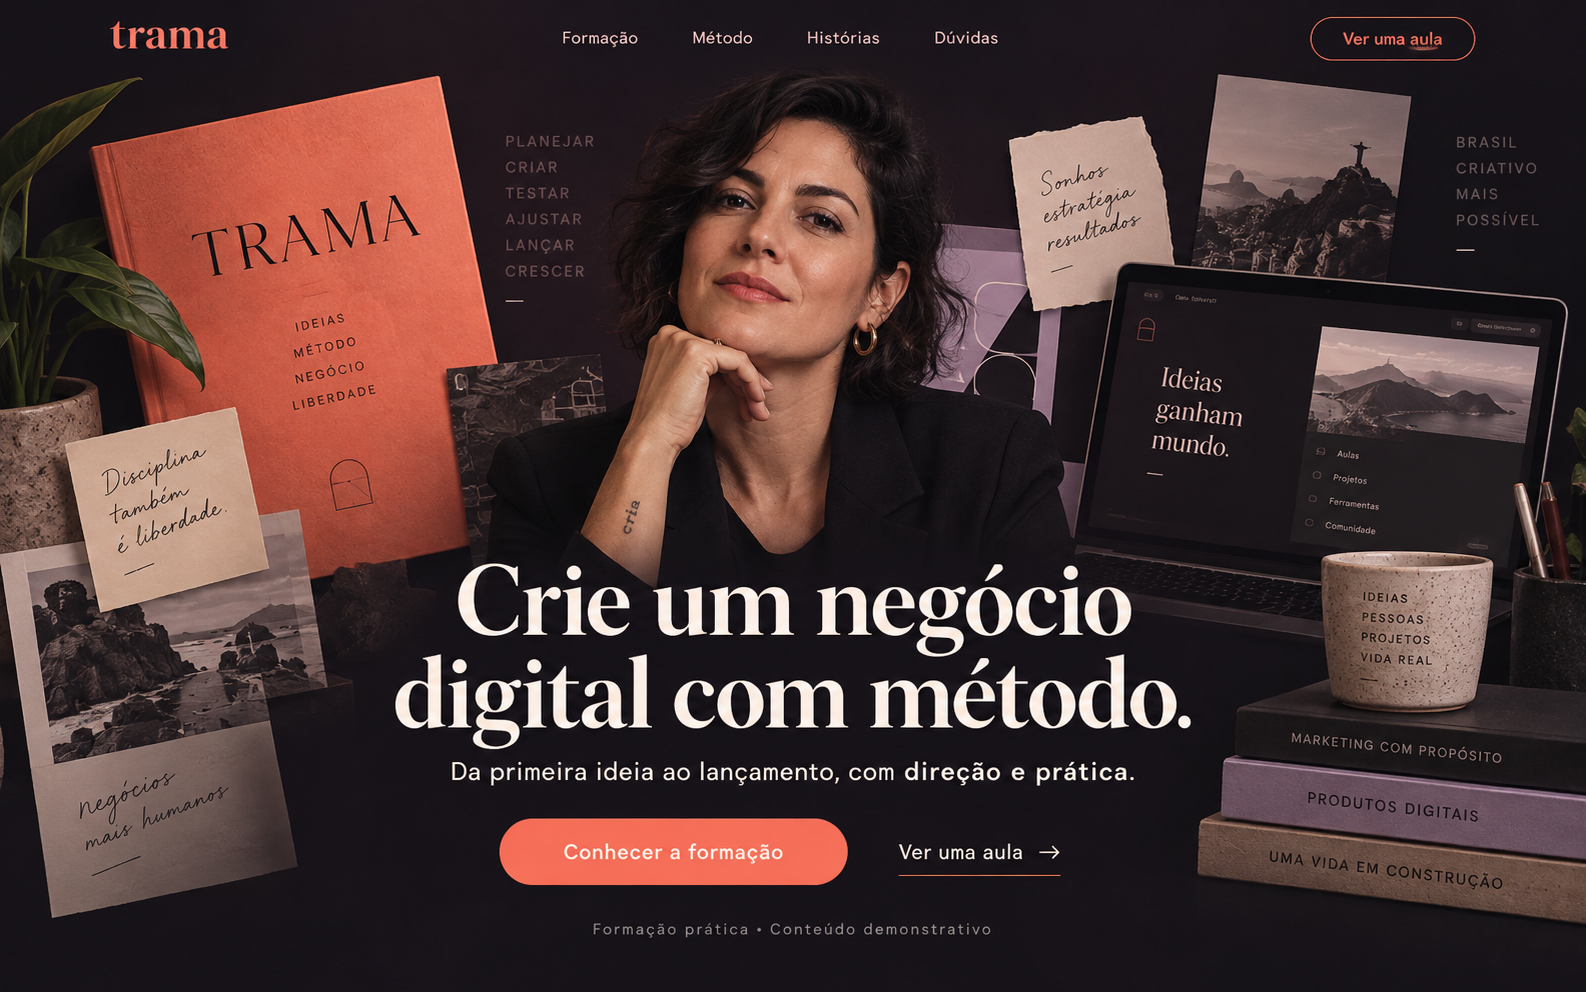
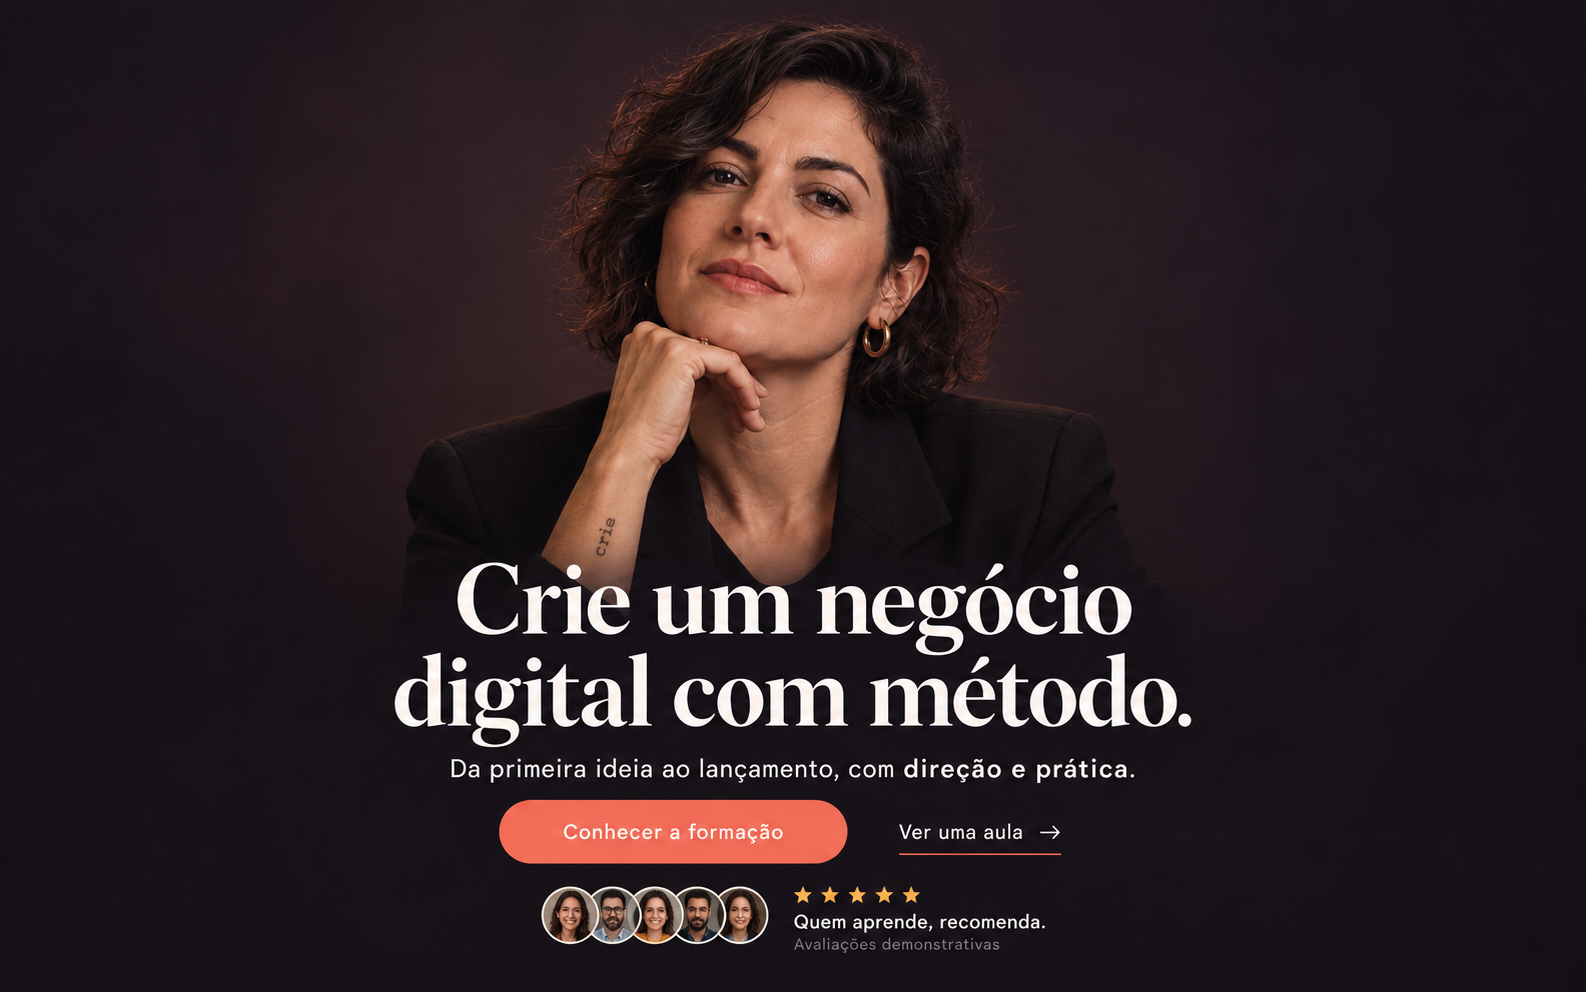
refine Trama hero after visual review

diff --git a/sites/concepts/2026-10-16-four-landings/index.html b/sites/concepts/2026-10-16-four-landings/index.html
@@ -33,13 +33,13 @@
     <header>
       <div class="eyebrow">SquadOS Studio · 16/10/2026 · ImageGen nativo</div>
       <h1>Quatro marcas.<br>Quatro primeiras impressões.</h1>
-      <p>Propostas de abertura para os templates one-page. As referências já estão escolhidas; agora validamos marcas, composição e arte próprias. Clique em cada imagem para vê-la no tamanho original.</p>
-      <span class="status">Conceitos estáticos · aguardando validação</span>
+      <p>Propostas de abertura para os templates one-page. Nortea, Orbe e Pipa aprovadas. Trama revisada conforme o feedback: retrato com mais foco, sem cabeçalho e com faixa de prova social. Clique em cada imagem para vê-la no tamanho original.</p>
+      <span class="status">Conceitos estáticos · Trama revisada para validação</span>
     </header>
     <section class="grid" aria-label="Conceitos dos quatro templates">
       <article>
-        <a class="preview" href="trama-hero.png" aria-label="Ver conceito da Trama em tamanho original"><img src="trama-hero.png" alt="Trama: instrutora fictícia e materiais de uma formação digital, em ameixa, creme e coral."></a>
-        <div class="copy"><div class="category">Infoproduto / Marketing Digital · referência Flux Academy</div><h2>Trama</h2><p>Escola de negócios digitais. Uma abertura com retrato, materiais e uma promessa de formação.</p><p class="planned"><strong>Interações previstas:</strong> módulos com prévia, aula demonstrativa, FAQ e inscrição local.</p></div>
+        <a class="preview" href="trama-hero.png" aria-label="Ver conceito da Trama em tamanho original"><img src="trama-hero.png" alt="Trama revisada: retrato da instrutora em fundo ameixa limpo, sem cabeçalho, com faixa de avaliações demonstrativas abaixo dos botões."></a>
+        <div class="copy"><div class="category">Infoproduto / Marketing Digital · referência Flux Academy</div><h2>Trama</h2><p>Escola de negócios digitais. Retrato em destaque, sem cabeçalho, com prova social demonstrativa abaixo dos botões. Revisão aguardando validação.</p><p class="planned"><strong>Interações previstas:</strong> módulos com prévia, aula demonstrativa, FAQ e inscrição local.</p></div>
       </article>
       <article>
         <a class="preview" href="nortea-hero.png" aria-label="Ver conceito da Nortea em tamanho original"><img src="nortea-hero.png" alt="Nortea: abertura editorial de consultoria, com fotos e relatórios em verde-petróleo e marfim."></a>

diff --git a/sites/concepts/2026-10-16-four-landings/README.md b/sites/concepts/2026-10-16-four-landings/README.md
@@ -1,6 +1,6 @@
 # Quatro aberturas para validação — 16/10/2026
 
-**Estado: conceitos visuais, aguardando validação do usuário.** As páginas finais
+**Estado: Nortea, Orbe e Pipa aprovadas; Trama revisada, aguardando validação.** As páginas finais
 e suas interações ainda não foram implementadas. O usuário autorizou os quatro
 templates e pediu validar primeiro aqui no chat, usando ImageGen nativo.
 
@@ -12,13 +12,13 @@ Essas imagens são propostas de composição, não capturas de páginas funciona
 
 | Template futuro | Marca fictícia proposta | Referência escolhida | Conceito |
 | --- | --- | --- | --- |
-| `website-digital-marketing` | **Trama**, escola de negócios digitais | [Flux Academy](https://www.flux-academy.com/courses/web-design-masterclass) | Fundo ameixa/carvão, creme/coral, instrutora fictícia e colagem de materiais próprios |
+| `website-digital-marketing` | **Trama**, escola de negócios digitais | [Flux Academy](https://www.flux-academy.com/courses/web-design-masterclass) | Fundo ameixa/carvão, creme/coral, foco na instrutora fictícia, sem cabeçalho e com prova social demonstrativa |
 | `website-corporate` | **Nortea**, consultoria de operações | [BCG](https://www.bcg.com/) | Composição editorial, marfim e verde-petróleo, fotografias e relatórios próprios, animação discreta |
 | `website-futuristic` | **Orbe**, workspace de inteligência | [Reflect](https://reflect.app/) | Azul-noite, arcos luminosos 2D e painel de produto frontal, sem modelos 3D complexos |
 | `website-playful` | **Pipa**, escola criativa | [Headspace](https://www.headspace.com/) | Creme, amarelo/coral/menta, personagens ilustrados próprios, mascote-pipa e movimentos suaves |
 
 As referências visuais foram escolhidas pelo usuário. Os nomes, conteúdo e arte
-acima são propostas desta etapa, ainda sujeitos à validação. Os personagens e
+acima são próprios desta etapa; apenas a revisão da Trama ainda aguarda validação. Os personagens e
 fotografias das propostas são sintéticos; não representam professores/clientes
 reais nem resultados de empresas reais.
 
@@ -27,7 +27,9 @@ reais nem resultados de empresas reais.
 ### Trama
 
 Promessa: **Crie um negócio digital com método.** A one-page terá abertura,
-transformação/método, programa, instrutora, oferta e FAQ. A navegação usará âncoras;
+transformação/método, programa, instrutora, oferta e FAQ. Sem cabeçalho, com
+retrato em fundo limpo e faixa de avatares/estrelas abaixo dos botões, identificada
+como “Avaliações demonstrativas”. Os botões usarão âncoras quando apropriado;
 selecionar um módulo trocará sua prévia; “Ver uma aula” abrirá uma demonstração
 local; inscrição terá formulário e confirmação local, sem compra ou envio real.
 
@@ -59,13 +61,17 @@ escopo previsto após validação, não funcionalidades comprovadas por estas im
 
 Quatro chamadas separadas ao **ImageGen nativo**, uma para cada hero. Não foi usado
 CLI, API externa ou engine local. Os prompts completos estão em [prompts.json](prompts.json).
+Após o feedback, uma quinta chamada nativa editou somente a Trama, preservando
+instrutora, paleta e tipografia. Os três conceitos aprovados mantêm os mesmos bytes.
 As saídas foram copiadas do diretório padrão do ImageGen, sem modificar seus bytes.
 Hashes e dimensões estão em [assets.json](assets.json).
 
 A [verificação da galeria](QA.json) passou: quatro PNGs 1586×992 íntegros,
 imagens decodificadas, links locais existentes, primeiro acesso por teclado e
 ausência de overflow horizontal em 1440px e 390px. A galeria foi renderizada e
-inspecionada; esse resultado não valida interações dos templates finais.
+inspecionada na entrega inicial. Após a revisão, foram conferidos os quatro hashes,
+dimensões, links, status e preservação dos três PNGs aprovados, sem repetir o browser
+para uma troca de imagem/texto. Esse resultado não valida interações dos templates finais.
 
 - [Trama](trama-hero.png)
 - [Nortea](nortea-hero.png)
